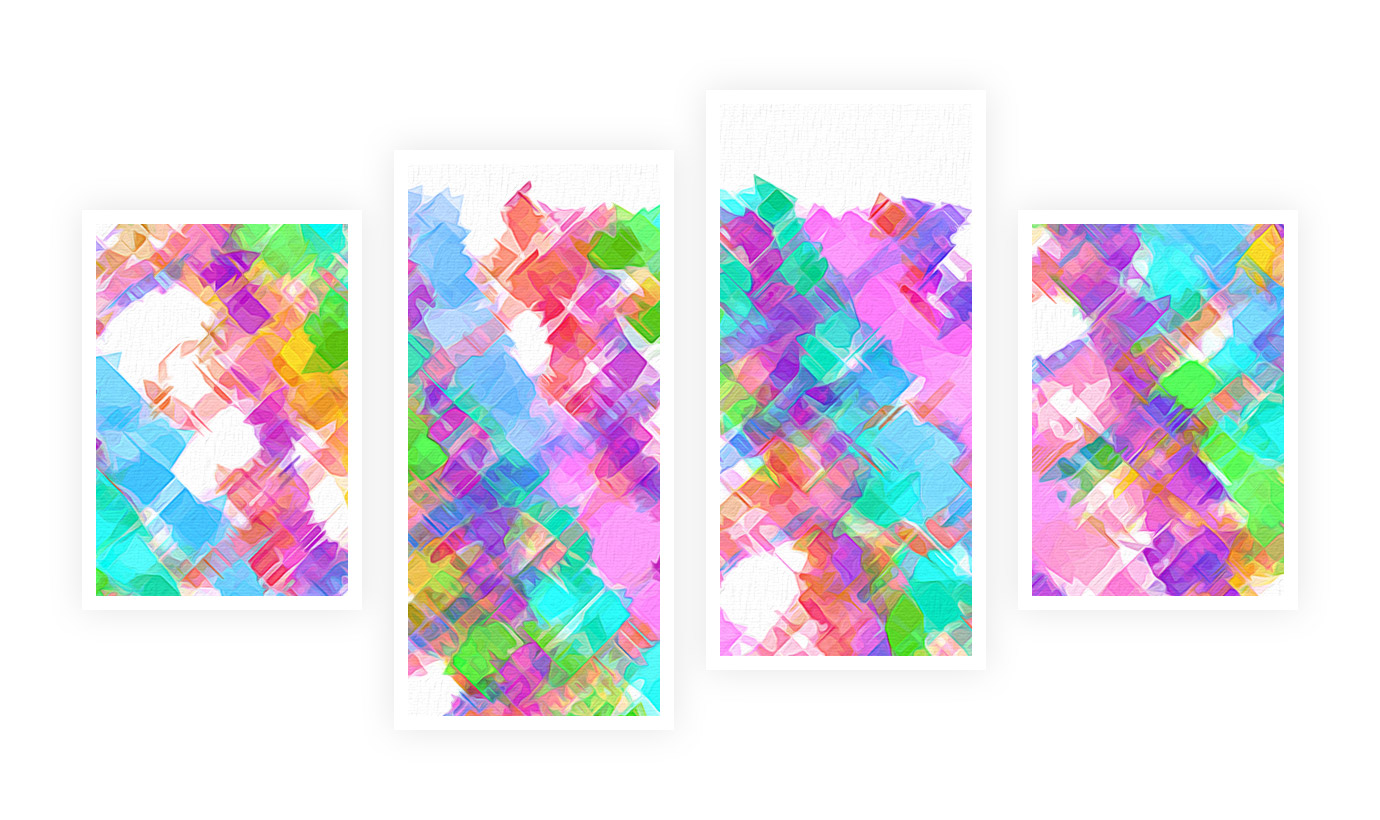
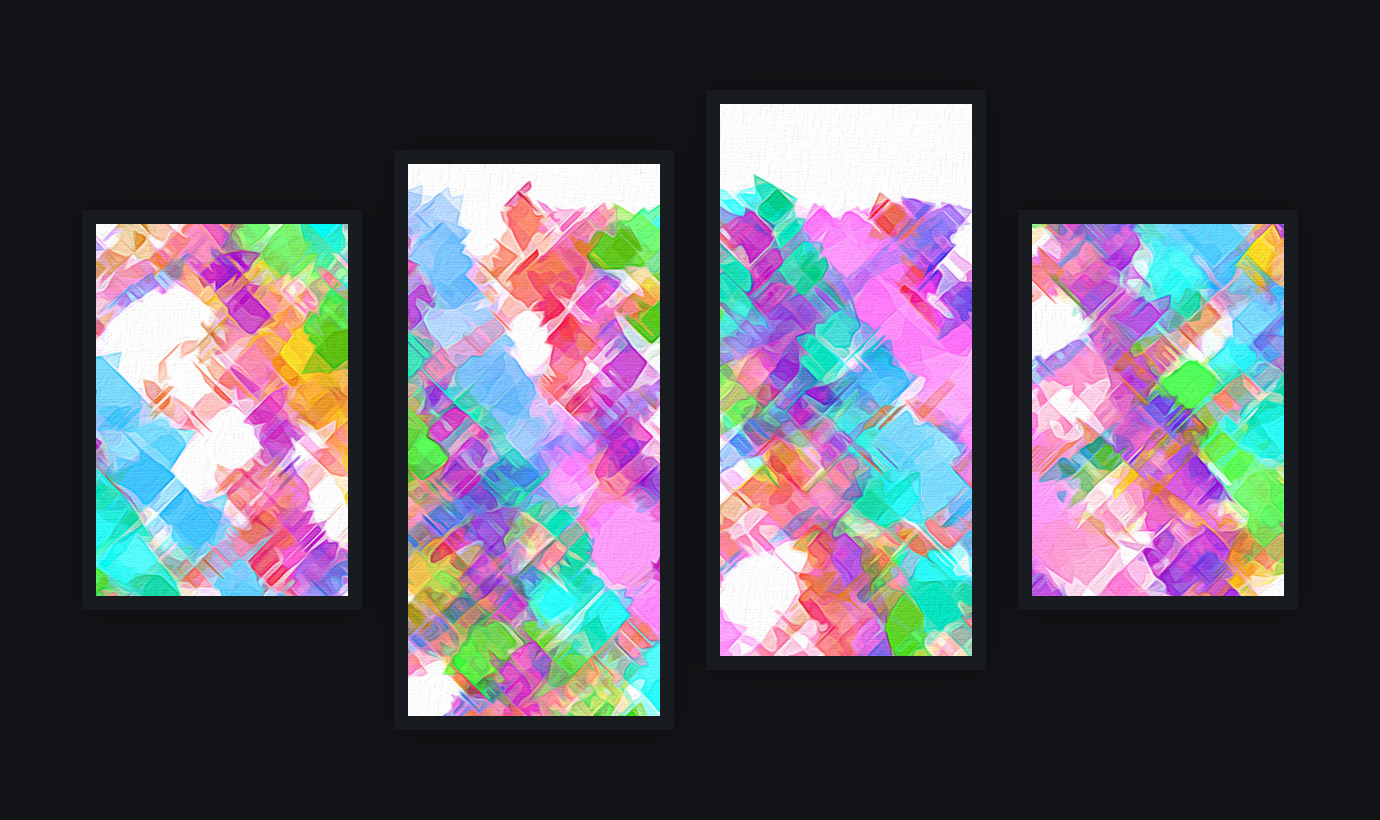
Update styles with new dark mode

diff --git a/src/components/gallery.js b/src/components/gallery.js
@@ -1,12 +1,12 @@
 import { useMediaQuery } from '@zigurous/react-components';
 import classNames from 'classnames';
 import PropTypes from 'prop-types';
-import React, { useState } from 'react';
+import React from 'react';
 import Slide, { SlideProps } from './slide';
-import chevronLeftIcon from '../images/icons/chevron_left-black-48dp.svg';
-import chevronRightIcon from '../images/icons/chevron_right-black-48dp.svg';
-import imageIcon from '../images/icons/image-black-36dp.svg';
-import infoIcon from '../images/icons/info-black-36dp.svg';
+import chevronLeftIcon from '../images/icons/chevron-left.svg';
+import chevronRightIcon from '../images/icons/chevron-right.svg';
+// import imageIcon from '../images/icons/image.svg';
+// import infoIcon from '../images/icons/info.svg';
 import '../styles/gallery.css';
 
 const Gallery = ({
@@ -16,13 +16,13 @@ const Gallery = ({
   slideIndex,
 }) => {
   const verticalLayout = useMediaQuery('(max-width: 1365px)');
-  const [showInfo, setShowInfo] = useState(true);
+  // const [showInfo, setShowInfo] = useState(true);
   const slide = gallery[slideIndex];
   return (
     <article
       className={classNames(
         'gallery',
-        { 'gallery--hide-info': !showInfo },
+        // { 'gallery--hide-info': !showInfo },
         { 'gallery--vertical-layout': verticalLayout },
         className
       )}
@@ -38,9 +38,7 @@ const Gallery = ({
       >
         {slideIndex > 0 && <img alt="" src={chevronLeftIcon} />}
       </button>
-      <div className="gallery__slides">
-        {slide && <Slide key={slide.id} slide={slide} />}
-      </div>
+      <div className="gallery__slides">{slide && <Slide slide={slide} />}</div>
       <button
         aria-label="Next Slide"
         className="gallery__button right"
@@ -54,7 +52,7 @@ const Gallery = ({
           <img alt="" src={chevronRightIcon} />
         )}
       </button>
-      <button
+      {/* <button
         aria-label={showInfo ? 'Hide Info' : 'Show Info'}
         className="gallery__button info"
         onClick={() => setShowInfo(!showInfo)}
@@ -64,7 +62,7 @@ const Gallery = ({
         ) : (
           <img alt="" src={infoIcon} />
         )}
-      </button>
+      </button> */}
     </article>
   );
 };

diff --git a/src/components/menu.js b/src/components/menu.js
@@ -10,12 +10,12 @@ import { Link as GatsbyLink, navigate } from 'gatsby';
 import PropTypes from 'prop-types';
 import React, { useState } from 'react';
 import { SlideProps } from './slide';
-import chevronLeftIcon from '../images/icons/chevron_left-black-48dp.svg';
-import chevronRightIcon from '../images/icons/chevron_right-black-48dp.svg';
-import galleryOpenIcon from '../images/icons/fullscreen_exit-black-36dp.svg';
-import galleryIcon from '../images/icons/fullscreen-black-36dp.svg';
-import menuOpenIcon from '../images/icons/menu_open-black-36dp.svg';
-import menuIcon from '../images/icons/menu-black-36dp.svg';
+import chevronLeftIcon from '../images/icons/chevron-left.svg';
+import chevronRightIcon from '../images/icons/chevron-right.svg';
+import galleryOpenIcon from '../images/icons/fullscreen-exit.svg';
+import galleryIcon from '../images/icons/fullscreen.svg';
+import menuOpenIcon from '../images/icons/menu-open.svg';
+import menuIcon from '../images/icons/menu.svg';
 import { titleCase } from '../formatting';
 import { setSessionIndex } from '../session';
 import { navLinks, socialLinks } from '../links';
@@ -97,9 +97,9 @@ const Menu = ({
           <div>
             <SocialNavLinks
               className="margin-left-md margin-right-md"
-              foregroundColor="black"
-              iconSize={24}
-              iconInnerPadding={12}
+              foregroundColor="var(--color-foreground-secondary)"
+              iconSize={20}
+              iconInnerPadding={10}
               links={socialLinks}
             />
             <button
@@ -174,7 +174,8 @@ const Menu = ({
                   <ProgressiveImage
                     alt={slide.imageAltText || ''}
                     className={classNames('app-menu__thumbnail-image', {
-                      [`app-menu__thumbnail-image--border-${slide.imageBorder}`]: slide.imageBorder,
+                      [`app-menu__thumbnail-image--border-${slide.imageBorder}`]:
+                        slide.imageBorder,
                     })}
                     imageProps={{
                       importance: 'low',

diff --git a/src/pages/index.js b/src/pages/index.js
@@ -1,7 +1,6 @@
-import { Button, Link /*, SocialNavLinks */ } from '@zigurous/react-components';
+import { Link } from '@zigurous/react-components';
 import { Link as GatsbyLink } from 'gatsby';
 import React from 'react';
-// import { socialLinks } from '../links';
 
 const Home = () => {
   return (
@@ -9,28 +8,24 @@ const Home = () => {
       <article className="container-md">
         <b className="h5 padding-left-sm">Hello, my name is</b>
         <h1 className="margin-top-sm">Adam Graham</h1>
-        <p className="font-lg">
-          I am a game developer and UX Engineer based in Chicago, IL fueled by a
-          passion for art and design. I founded an indie game studio called{' '}
+        <p className="text-foreground-secondary font-lg margin-bottom-1em">
+          I am a game developer and software engineer based in Chicago, IL
+          fueled by a passion for art and design. I founded an indie game studio
+          called{' '}
           <Link className="color-inherit" external to="https://zigurous.com/">
             <b>Zigurous</b>
           </Link>{' '}
           where I make game assets and tutorials to help developers grow their
           skills and make games easier.
         </p>
-        <div className="display-flex align-items-center flex-wrap">
-          <GatsbyLink className="link--unstyled" to="/games">
-            <Button className="margin-top-lg margin-bottom-lg" size="medium">
-              View Gallery
-            </Button>
-          </GatsbyLink>
-          {/* <SocialNavLinks
-            foregroundColor="black"
-            iconSize={24}
-            iconInnerPadding={12}
-            links={socialLinks}
-          /> */}
-        </div>
+        <Link
+          className="btn btn--solid"
+          ElementType={GatsbyLink}
+          to="/games"
+          unstyled
+        >
+          View Gallery
+        </Link>
       </article>
     </main>
   );

diff --git a/src/styles/menu.css b/src/styles/menu.css
@@ -12,7 +12,7 @@
   width: 100%;
   height: 80px;
   transition: height 400ms;
-  background-color: white;
+  background-color: var(--color-background-secondary);
 }
 
 .app-menu--fullscreen .app-menu__container {
@@ -30,7 +30,7 @@
   width: 100%;
   height: 80px;
   padding: 24px 32px;
-  box-shadow: 0 0 1rem rgba(0, 0, 0, 10%);
+  background-color: var(--color-background-tertiary);
 }
 
 .app-menu__header > div {
@@ -50,8 +50,21 @@
   margin-right: 16px;
 }
 
-.app-menu .nav-bar__item {
-  font-weight: 600;
+.app-menu .nav-bar__item a {
+  color: inherit;
+  border: none;
+  opacity: 0.54;
+  transition: color 200ms, opacity 200ms;
+}
+
+.app-menu .nav-bar__item a > .icon {
+  color: inherit;
+  transition: color 200ms, opacity 200ms;
+}
+
+.app-menu .nav-bar__item a.active,
+.app-menu .nav-bar__item a:hover {
+  opacity: 1;
 }
 
 .app-menu__body {
@@ -61,7 +74,7 @@
   padding: 32px;
   overflow-x: hidden;
   overflow-y: auto;
-  background-color: white;
+  background-color: var(--color-background-tertiary);
 }
 
 .app-menu__menu-view,
@@ -94,19 +107,6 @@
   display: flex;
   align-items: center;
   height: max-content;
-}
-
-.app-menu__thumbnail-image {
-  box-shadow: 0 0 3rem rgb(0 0 0 / 15%);
-  border: 4px solid white;
-  border-radius: 0.25rem;
-  background-color: white;
-}
-
-.app-menu__thumbnail-image--border-none {
-  border: none;
-  background-color: transparent;
-  box-shadow: none !important;
 }
 
 .app-menu__nav-list {

diff --git a/src/components/slide.js b/src/components/slide.js
@@ -10,11 +10,12 @@ const Slide = ({ className, slide }) => {
   const offline = typeof navigator !== 'undefined' && !navigator.onLine;
   const projectPath = `/${slide.category}/${slide.id}`;
   return (
-    <div className={classNames('slide', className)} key={slide.id}>
+    <div className={classNames('slide', className)}>
       <div className="slide__image-wrapper">
         <Link ElementType={GatsbyLink} to={projectPath} unstyled>
           <ProgressiveImage
             alt={slide.imageAltText || ''}
+            animated={false}
             className={classNames('slide__image', {
               [`slide__image--border-${slide.imageBorder}`]: slide.imageBorder,
             })}
@@ -27,12 +28,15 @@ const Slide = ({ className, slide }) => {
       </div>
       <div className="slide__text-wrapper">
         <div className="slide__text-container">
-          <h1 className="h4">{slide.title}</h1>
-          <p>{slide.description_short || slide.description}</p>
+          <h1 className="h3">{slide.title}</h1>
+          <p className="text-foreground-secondary">
+            {slide.description_short || slide.description}
+          </p>
           <Link
-            className="font-weight-semibold"
+            className="btn btn--solid btn--sm"
             ElementType={GatsbyLink}
             to={projectPath}
+            unstyled
           >
             More Details
           </Link>

diff --git a/src/components/project.js b/src/components/project.js
@@ -23,10 +23,14 @@ const Project = ({ className, project }) => (
           <em>{project.date}</em>
         </p>
       )}
-      {project.description && <p>{project.description}</p>}
+      {project.description && (
+        <p className="text-foreground-secondary">{project.description}</p>
+      )}
       {project.description_long &&
         project.description_long.map((description) => (
-          <p key={description}>{description}</p>
+          <p className="text-foreground-secondary" key={description}>
+            {description}
+          </p>
         ))}
     </section>
     {project.details && (
@@ -51,7 +55,7 @@ const Project = ({ className, project }) => (
               iconName={button.icon}
               key={button.name}
               link={button.link}
-              size="small"
+              size={Button.size.small}
             >
               {button.name}
             </Button>
@@ -90,7 +94,7 @@ const Project = ({ className, project }) => (
           {section.paragraphs &&
             section.paragraphs.map((paragraph, paragraphIndex) => (
               <p
-                className="font-sm"
+                className="text-foreground-secondary font-sm"
                 key={`section-${index}-paragraph-${paragraphIndex}`}
               >
                 {paragraph}

diff --git a/src/styles/global.css b/src/styles/global.css
@@ -1,6 +1,19 @@
 :root {
   --header-height: 0;
   --footer-height: 80px;
+  --color-primary: #536dfe;
+  --color-primary-hover: #3d5afe;
+  --color-background: #101214;
+  --color-background-secondary: #181b1f;
+  --color-background-tertiary: #0c0d0f;
+  --color-foreground: rgba(255,255,255,0.87);
+  --color-foreground-secondary: rgba(255,255,255,0.54);
+  --color-foreground-tertiary: rgba(255,255,255,0.38);
+  --color-elevation-06p: rgba(255,255,255,0.06);
+  --color-elevation-08p: rgba(255,255,255,0.08);
+  --color-elevation-12p: rgba(255,255,255,0.12);
+  --color-elevation-16p: rgba(255,255,255,0.16);
+  --color-elevation-24p: rgba(255,255,255,0.24);
 }
 
 html {
@@ -10,6 +23,7 @@ html {
 body {
   overflow-x: hidden;
   overflow-y: auto;
+  background-color: #101214;
 }
 
 .app > .page {

diff --git a/src/styles/slide.css b/src/styles/slide.css
@@ -24,10 +24,10 @@
 .slide__image {
   display: inline-flex;
   max-height: 100%;
-  border: 12px solid white;
+  border: 12px solid var(--color-background-secondary);
   border-radius: 0.25rem;
-  box-shadow: 0 0 3rem rgb(0 0 0 / 15%);
-  background-color: white;
+  box-shadow: 0 0 1rem rgba(0, 0, 0, 10%);
+  background-color: var(--color-background-secondary);
   overflow: hidden;
 }
 

diff --git a/src/styles/project.css b/src/styles/project.css
@@ -11,7 +11,7 @@
 .project em {
   font-style: normal;
   letter-spacing: -0.5px;
-  color: #757575;
+  color: var(--color-foreground-tertiary);
 }
 
 .project img {
